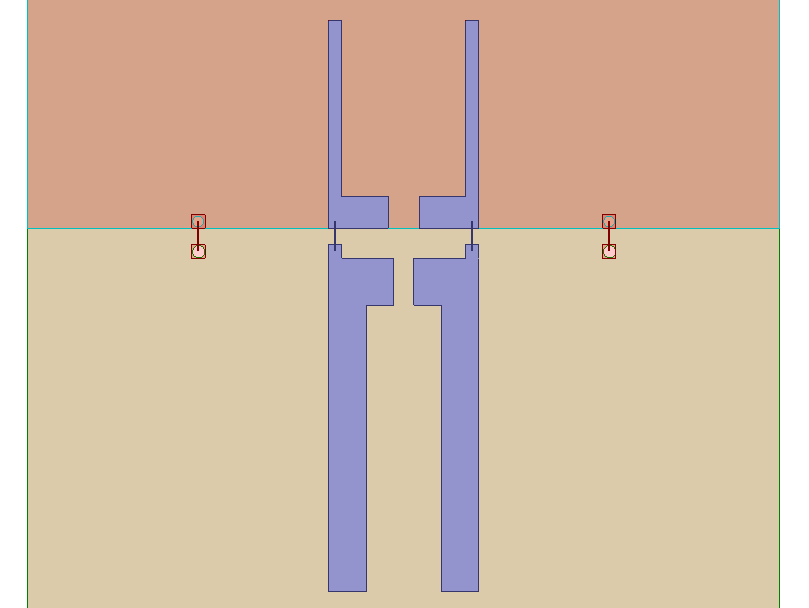
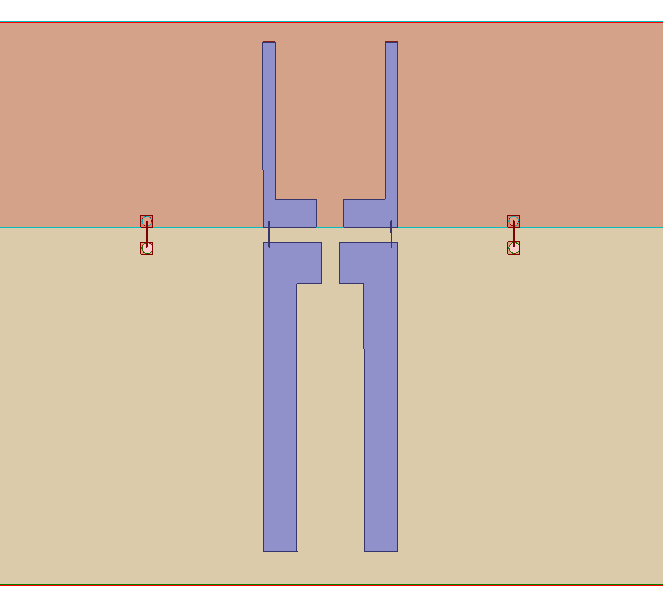
Update the bonding wire view

Changed region(s): [[0.0, 0.0, 1.0, 1.0]]

diff --git a/latex_report/ECE546-High Speed Link.tex b/latex_report/ECE546-High Speed Link.tex
@@ -193,7 +193,7 @@ Similar procedure described in \ref{subsec:pcb_traces} can also be applied to th
 \begin{figure}[htbp!]
 	\centering
 	\includegraphics[width=0.8\columnwidth]{./img/PCB/differential_PKG_2D_CrossSection.png}
-	\caption{Design parameter of PCB traces.}
+	\caption{Design parameter of package traces.}
 	\label{fig:pkg_trace} % label must put at the last
 \end{figure}
 
@@ -204,10 +204,10 @@ Similar procedure described in \ref{subsec:pcb_traces} can also be applied to th
 	\label{fig:pkg_trace_impedance} % label must put at the last
 \end{figure}
 
-
-
 \subsection{Bonding Wire Transition}
 \label{sec:bond_wire}
+The transition between package and PCB is through using bonding wire. The radius of bonding wire is 25um. 
+
 
 
 
